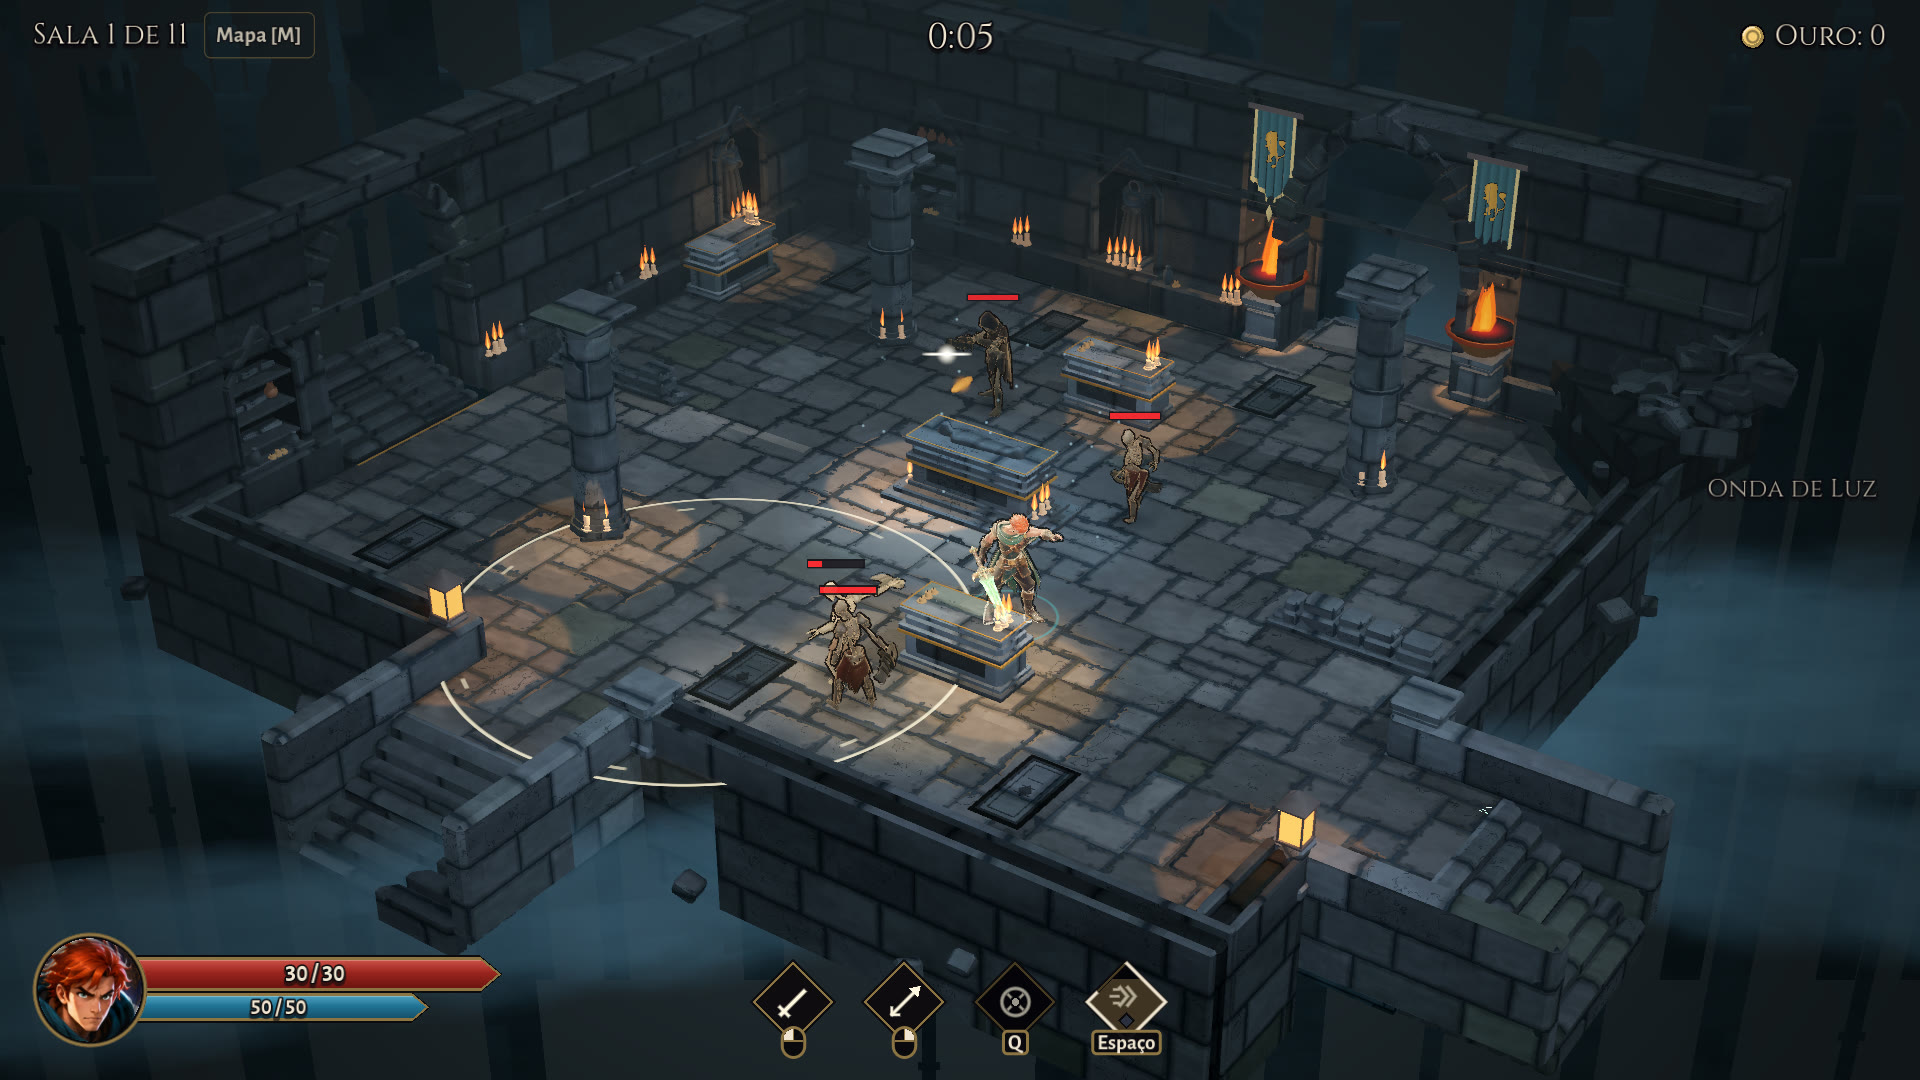
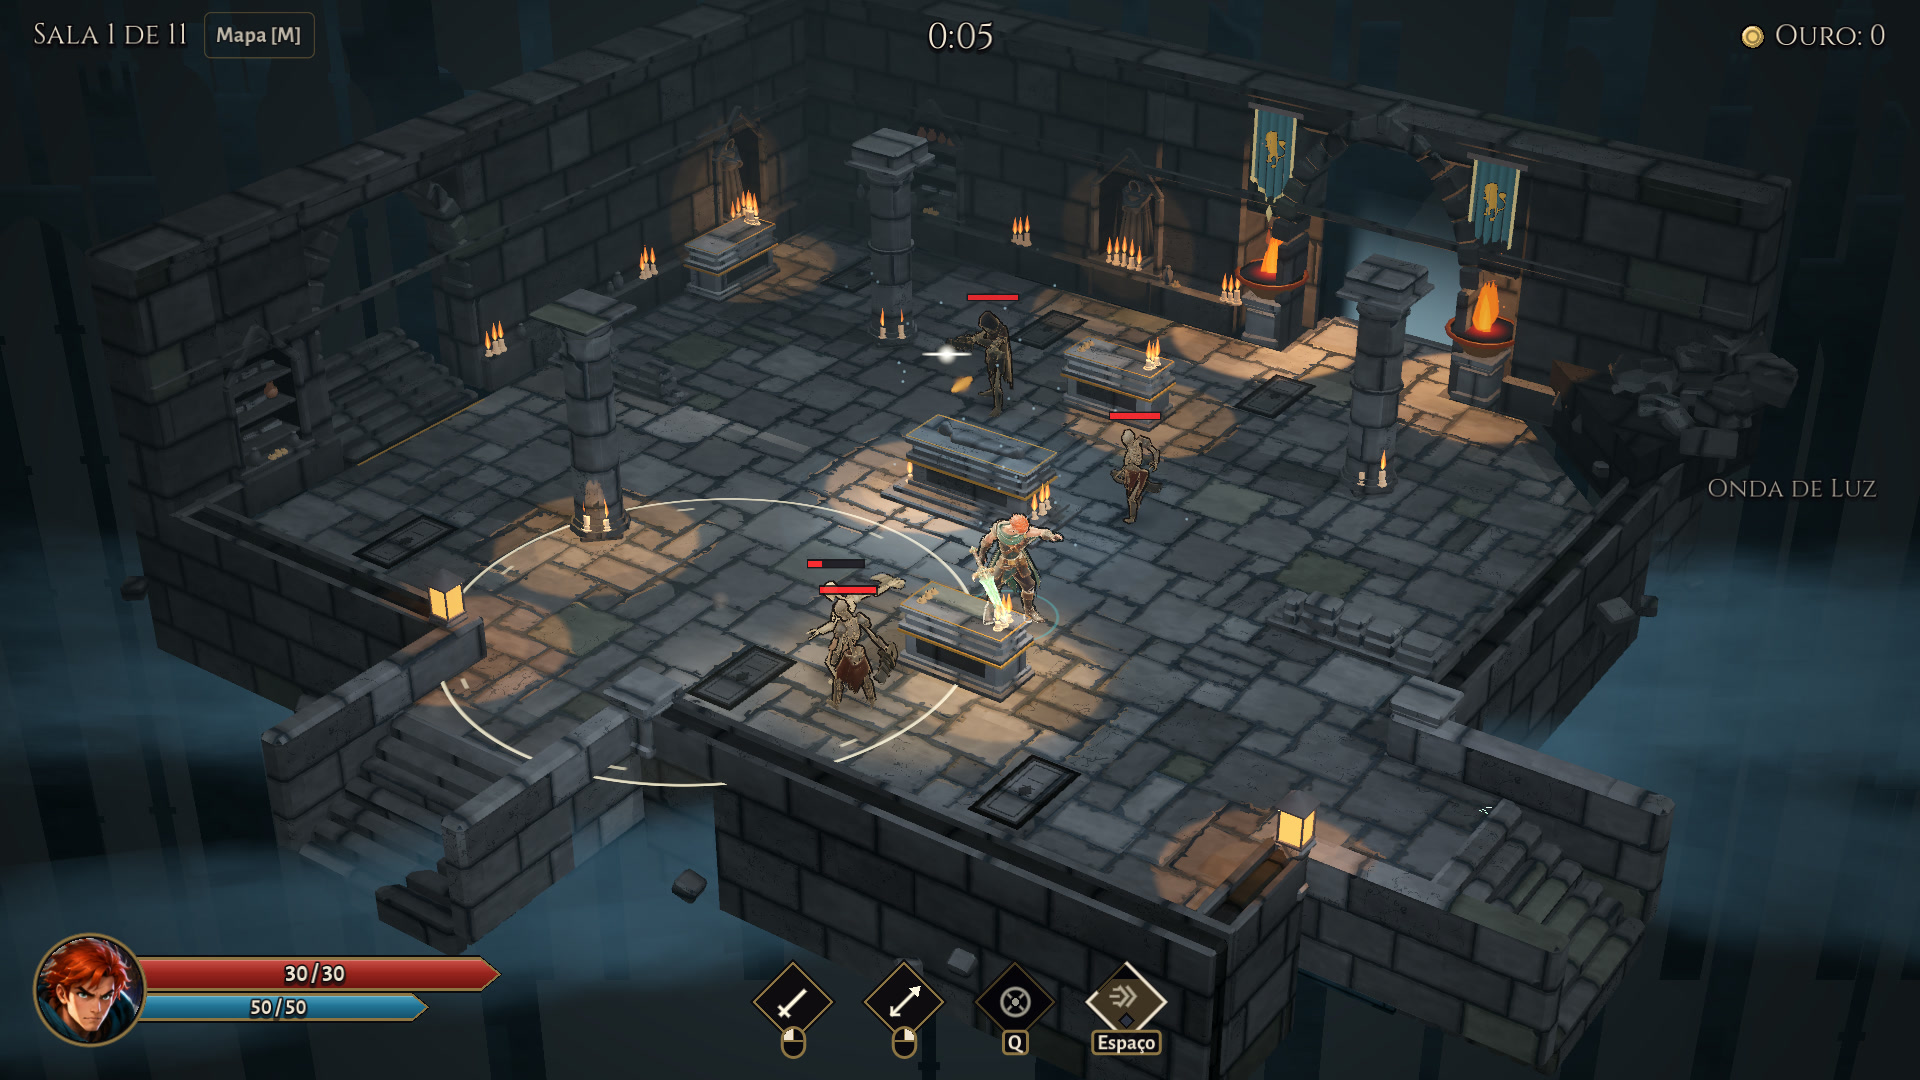
Room redesign fixes after the Lote A review: warmer crypt candles, greyer crypt stone, veiled figure and north door glow readable, shop lantern in every gap with pools, painted reliquary, fountain moss broken and flowers in tufts; sanctuary shafts diffuse (no hard floor discs), warmer varied limesto

diff --git a/CLAUDE.md b/CLAUDE.md
@@ -1535,6 +1535,22 @@ worktree). Tarefa pequena o Game Director faz direto. Protocolo completo: `docs/
 - Medido (RTX 1080, vitrine do jogo, semente 5): Cripta chão 66 e 69, parede norte 34, fora 25, quadro 56, matiz 206;
   Salão chão 74 (matiz 229, saturação 0,12), norte 65, abismo matiz 211, quadro 68. Quadro: Cripta RTX 2,08 para 1,97 ms,
   iGPU 720 Baixa 14,3 para 13,3; Salão 2,55 para 2,42 e 17,3 para 15,2. O clássico igual à galeria nas cinco vistas.
+- **Correções da revisão** (`docs/art/room_redesign_lotA_review.md`, itens 1 a 10; capturas da galeria substituídas):
+  Cripta com velas 1,8, poça 1,4, braseiros 1,5 e 4,5 m; pedra (0,315; 0,325; 0,335), chão (0,285; 0,296; 0,306),
+  sombra (0,90; 0,94; 0,97), ambiente (0,74; 0,76; 0,78); figura velada da B mais clara (`VEILED_VALUE` 1,35,
+  `VEILED_GLOW` 3,2) e brilho da porta norte mais claro e menos saturado (`DOOR_GLOW_FOOT`, `_B`); na B as velas das
+  tampas a 0,6 da luz das outras (`STY_LID_LIGHT`, pela meta `ArenaKit.FIRE_SHARE` que o `stylize_fires` lê) e a tampa
+  a `STY_LID_POOL` 0,45. Loja: lanterna em todo vão entre itens, luz âmbar própria (`SHOP_LAMP_LIGHT`, energia 7,
+  alcance 4,5), vidro e chama pelo `ScreenTone.fit`. Salão: velas 1,5 e poças com a saturação inteira do fogo
+  (`STY_POOL_SATURATION` 1,0, só o Salão, a loja e a fonte). Relicário de toda recompensa pintado no estilizado
+  (`RewardGem.STY_RELIQUARY_TINT`, pedra e sombra do `CatacombHall.STYLE`). Musgo da fonte com borda quebrada
+  (`ragged` 0,5 m, `north_reach` 0,3, raio médio 3,0, `FOUNTAIN_MOSS_*`) e flores de 9 a 14 cm em tufos de 3 a 6.
+  Compatibility: o ambiente não muda as figuras (chão 106 a 111, figuras 33 a 39 com 0,7 ou 0,85): fica 0,7 e as
+  figuras são do technical-artist (`crowd.gdshader`). Medido (RTX 1080, semente 5): Cripta A / B parte quente 3,1 /
+  2,6%, chão leste 68 / 67 (saturação 0,18, matiz 208), parede norte 34 (saturação 0,27), ciano 0,3%, figura velada
+  55 (p90 78), porta norte p90 81 / 84 (saturação 0,33 / 0,31); Salão quente 3,2%, meio 72 (matiz 235); Loja quente
+  7,8%; o chão oeste da B segue 90 porque a caixa pega o herói e o círculo na captura. iGPU 720 Baixa: Cripta 13,4 ms,
+  Salão 15,3 (iguais). O clássico mede igual.
 
 ## Redesenho das salas, Lote B (só no estilizado; spec `docs/art/room_redesign_lotB_spec.md`, capturas em `docs/gallery/redesign/lotB/`)
 - **Biblioteca nova**: `ArenaKit.styled_build(build, at, scale)` monta qualquer peça do kit (estátua, estandarte,
@@ -1562,8 +1578,16 @@ worktree). Tarefa pequena o Game Director faz direto. Protocolo completo: `docs/
   Fendas matiz 255 a 257, saturação 0,21 a 0,23, chão 42 a 54, violeta na cena 0,7 (A) e 1,8% (B). Quadro RTX 1080 Alta
   (GPU) Santuário 2,33 / 2,15 para 2,18 / 2,26 ms, Fendas 2,22 / 2,19 para 1,92 / 1,96; iGPU 720 Baixa 14,6 / 14,6 para
   14,8 / 15,3 e 14,3 / 15,6 para 14,0 / 14,5. Compatibility sem erro (`STY_COMPAT_*` de cada look). O clássico igual.
-  Cena (luma p50): Santuário 63 / 58, Fendas 49 / 53. Fora da faixa: os fachos do Santuário ainda desenham discos de
-  borda dura no chão (a luz pintada) e o chão das Fendas A na caixa da frente fica em 42 (meta 50 a 65).
+  Cena (luma p50): Santuário 63 / 58, Fendas 49 / 53.
+- **Correções**: luz difusa na pintura: uma luz com `light_specular` 0 (`SPECULAR_AMOUNT` no `paint.gdshaderinc`) pula
+  as faixas e a borda de poça e acende por N·L vezes a queda (`paint_diffuse`), então o cone some largo e macio (nada
+  de círculo no chão, P-4). Os fachos do Santuário no estilizado são assim, mais quentes (`STY_SHAFT_WARM`), a 0,75 da
+  energia, cone de 30 graus e mais inclinados (`STY_SHAFT_LEAN`, `_leaning`: a mancha alonga na direção da luz); o da
+  B no buraco continua frio. Chão do Santuário mais quente e com mais variação por laje (`STY_FLOOR`,
+  `STY_SLAB_PAINT` 0,78 a 1,2, `STY_SLAB_HUE` 7, chave nova `slab_paint` do `ArenaKit.FLOOR_KEYS`, oliva 0,04). Fendas:
+  chão mais claro e sem escurecer para a borda (`STY_FLOOR`, `STY_EDGE_VALUE` 1,0). Medido: Santuário A nave matiz 30
+  a 34, saturação 0,13 a 0,19, luma 74 a 90 (p10 a p90 de 53 a 115, antes chapado), cena 61; B 59; Fendas A caixa da
+  frente `1500,850,192,162` 51 e `1600,700` 56 (eram 39 e 46), o meio oeste 71.
 
 ## Pendências conhecidas
 - **Fase por salas** (padrão desde a E3): o robô com reação 0,25 desce as 10 salas em 4 a 4 min 40 s e chega em Morvath
